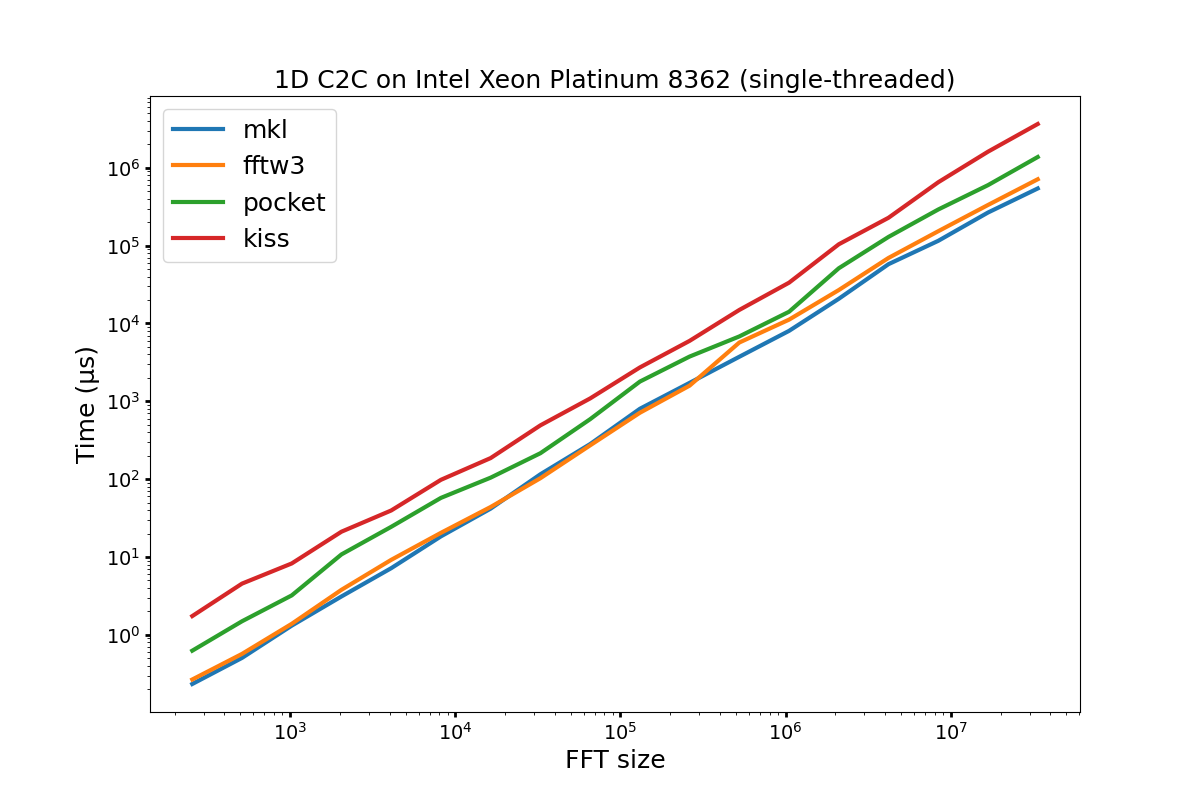
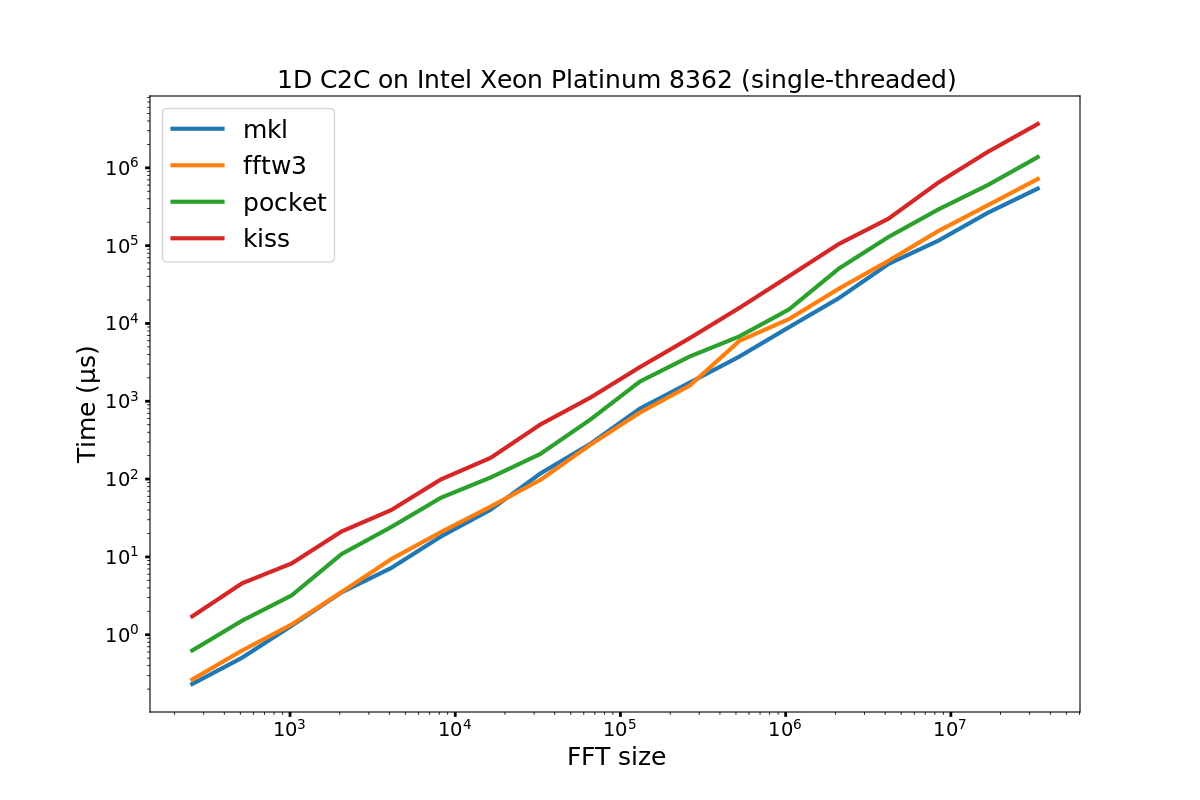
Add openmp benchmarks

diff --git a/src/fft_bench.cpp b/src/fft_bench.cpp
@@ -4,6 +4,10 @@
 
 #include <benchmark/benchmark.h>
 
+#ifdef FFT_BENCH_OMP
+#include <omp.h>
+#endif
+
 #ifdef FFT_BENCH_MKL
 #include <fftw/fftw3_mkl.h>
 #elif FFT_BENCH_FFTW3
@@ -35,6 +39,13 @@ static void run_1d_fft(benchmark::State &state) {
     fftw_complex *in = (fftw_complex *)fftw_malloc(sizeof(fftw_complex) * N);
     fftw_complex *out = (fftw_complex *)fftw_malloc(sizeof(fftw_complex) * N);
     initialize_arrays(N, (double *)in, (double *)out);
+
+#ifdef FFT_BENCH_OMP
+    int n_threads;
+#pragma omp parallel
+    n_threads = omp_get_num_threads();
+    fftw_plan_with_nthreads(n_threads);
+#endif
     fftw_plan p = fftw_plan_dft_1d(N, in, out, FFTW_FORWARD, STRATEGY);
 
     for (auto _ : state)
@@ -46,7 +57,7 @@ static void run_1d_fft(benchmark::State &state) {
 }
 
 #elif defined(FFT_BENCH_POCKET)
-template <int N, int STRATEGY = FFTW_MEASURE>
+template <int N>
 static void run_1d_fft(benchmark::State &state) {
     double *in = (double *)malloc(2 * sizeof(double) * N);
     double *out = (double *)malloc(2 * sizeof(double) * N);
@@ -59,7 +70,7 @@ static void run_1d_fft(benchmark::State &state) {
     destroy_cfft_plan(p);
 }
 #elif defined(FFT_BENCH_KISS)
-template <int N, int STRATEGY = FFTW_MEASURE>
+template <int N>
 static void run_1d_fft(benchmark::State &state) {
     kiss_fft_cpx *in = (kiss_fft_cpx *)malloc(sizeof(kiss_fft_cpx) * N);
     kiss_fft_cpx *out = (kiss_fft_cpx *)malloc(sizeof(kiss_fft_cpx) * N);

diff --git a/fi/collect_results.py b/fi/collect_results.py
@@ -15,7 +15,7 @@ mainfont = {
 }
 
 arches = ['rome', 'skylake', 'icelake']
-implementations = ['mkl', 'fftw3', 'pocket', 'kiss']
+implementations = ['mkl', 'fftw3', 'mkl-omp', 'fftw3-omp', 'pocket', 'kiss']
 
 cpu_data = {
     'rome': 'AMD EPYC 7742',
@@ -49,6 +49,8 @@ for arch in arches:
 for arch in arches:
     fig, ax = plt.subplots(1, figsize=(12, 8))
     for impl, meas in aggregate_data[arch].items():
+        if '-omp' in impl:
+            continue
         plt.loglog(meas['sizes'], meas['timings'], label=impl, linewidth=3)
     plt.title(f"1D C2C on {cpu_data[arch]} (single-threaded)", fontdict=mainfont)
     plt.xlabel("FFT size", fontdict=mainfont)
@@ -57,3 +59,18 @@ for arch in arches:
 
     plt.legend(prop={'size':18})
     plt.savefig(f'1d_c2c_st_{arch}.png', )
+
+
+for arch in arches:
+    fig, ax = plt.subplots(1, figsize=(12, 8))
+    for impl, meas in aggregate_data[arch].items():
+        if '-omp' not in impl:
+            continue
+        plt.loglog(meas['sizes'], meas['timings'], label=impl, linewidth=3)
+    plt.title(f"1D C2C on {cpu_data[arch]} (multi-threaded)", fontdict=mainfont)
+    plt.xlabel("FFT size", fontdict=mainfont)
+    plt.ylabel("Time (µs)", fontdict=mainfont)
+    ax.tick_params(labelsize=14, width=2)
+
+    plt.legend(prop={'size':18})
+    plt.savefig(f'1d_c2c_mt_{arch}.png', )

diff --git a/README.md b/README.md
@@ -1,6 +1,34 @@
 # Benchmarking various FFT implementations
+FFTW3 run in FFTW_MEASURE mode. FFTW_PATIENT is death, and I wanted to give it a fair shot with the default. It's compiled with
+```
+./configure --enable-openmp --enable-shared=yes  --enable-sse2 --enable-avx  --enable-avx2 --enable-avx512 --enable-fma \
+    --disable-kcvi --disable-vsx --disable-avx-128-fma --enable-fma
+```
+All benchmarks are run compiled with native instructions enabled `-march=native -O3`
 
-It's been done. It's going to be done again.
+
+## Single threaded results
 ![](fi/1d_c2c_st_rome.png)
 ![](fi/1d_c2c_st_skylake.png)
 ![](fi/1d_c2c_st_icelake.png)
+
+## Multi threaded results
+All benchmarks are run on a single socket, using all available cores on that socket. I.e.
+
+```
+# Rome: 64 cores
+# Skylake: 20 cores
+# Icelake: 32 cores
+
+export OMP_NUM_THREADS=$((nproc / 2))
+export OMP_PROC_BIND=spread
+export OMP_PLACES=threads
+
+taskset -c 0-$((OMP_NUM_THREADS-1)) blah_bench args
+```
+
+Note that KISS has openmp enabled, but I didn't do a separate build for it. Given its performance, I am happy to ignore it. So the following benchmarks are just for mkl/fftw3.
+
+![](fi/1d_c2c_mt_rome.png)
+![](fi/1d_c2c_mt_skylake.png)
+![](fi/1d_c2c_mt_icelake.png)
